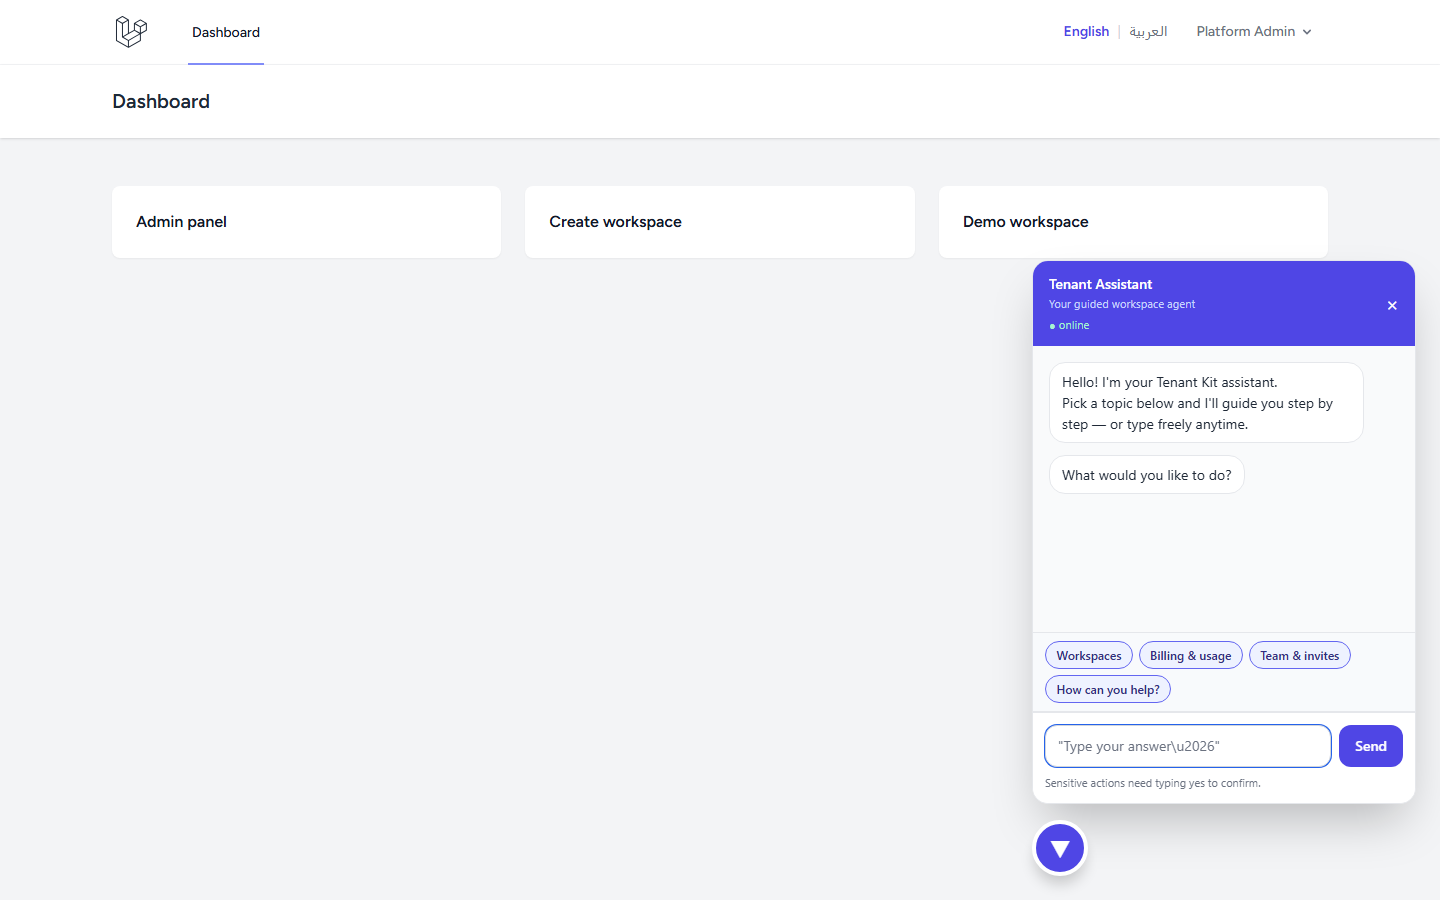
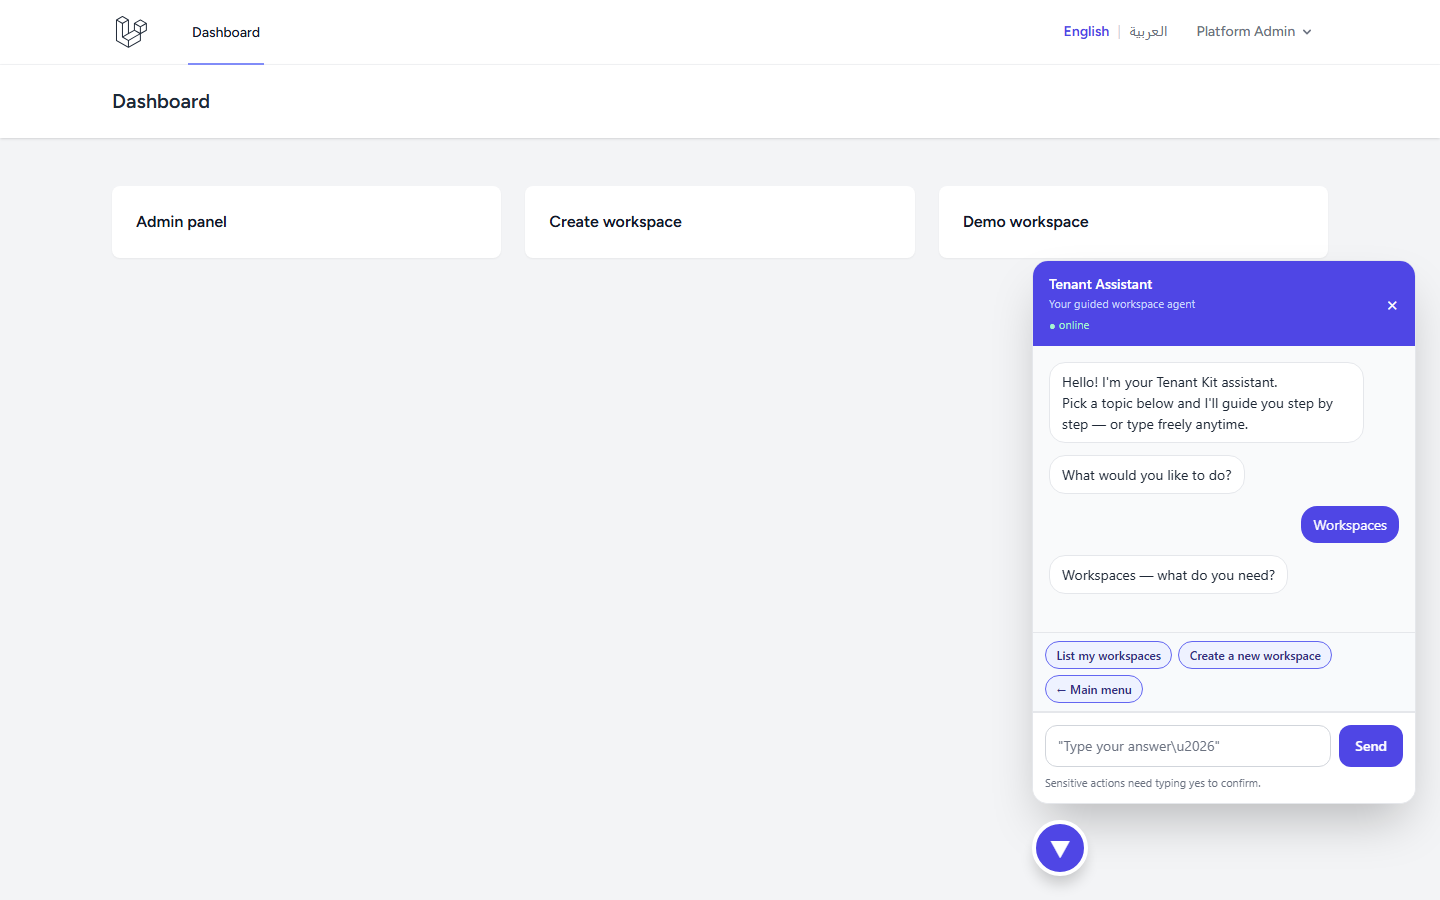
docs: regenerate demo GIF with guided agent frames (07–08)

diff --git a/docs/screenshots/README.md b/docs/screenshots/README.md
@@ -4,7 +4,7 @@ Preview images for the Laravel Tenant Kit README (captured after `php artisan db
 
 | File | Page | URL (Docker `:8080`) |
 |------|------|----------------------|
-| `demo.gif` | End-to-end walkthrough | landing → signup → tenant login → dashboard → team → Filament admin → guided agent |
+| `demo.gif` | End-to-end walkthrough | landing → signup → tenant → team → Filament → **guided agent (open + workspaces menu)** |
 | `landing.png` | SaaS landing page | `http://laravel-tenant-kit.test:8080/` |
 | `admin-panel.png` | Filament dashboard + SaaS analytics widgets | `http://laravel-tenant-kit.test:8080/admin` |
 | `tenant-dashboard.png` | Workspace dashboard | `http://demo.laravel-tenant-kit.test:8080/dashboard` |